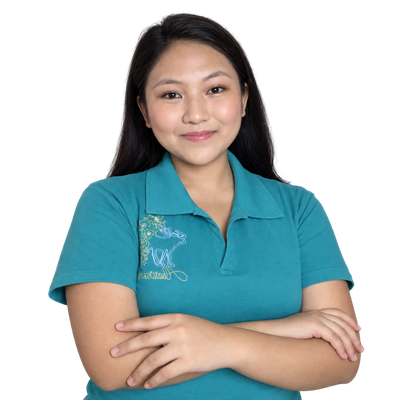
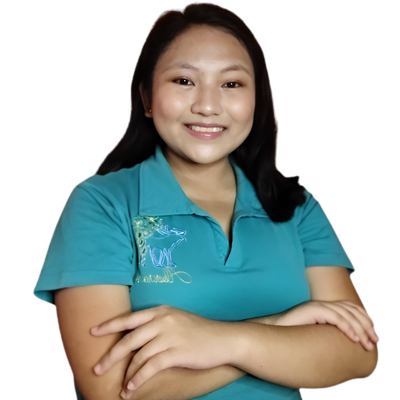
portfolio update 2026

Changed region(s): [[0.06, 0.0, 0.96, 1.0], [0.78, 0.54, 0.84, 0.6], [0.75, 0.6, 0.78, 0.63]]

diff --git a/index.html b/index.html
@@ -49,7 +49,7 @@
             </div>
             
             <div class="about__image-container">
-                <img src="./assets/profile-photo.png" alt="Rhyah Austrie Reyes" class="about__image-nobg">
+                <img src="./assets/profile-photo.png" alt="Rhyah Austrie Reyes" class="about__image-photo">
             </div>
         </div>
 
@@ -59,8 +59,8 @@
 
                 <div class="project">
                     <span class="badge badge--live">LIVE</span>
-                    <h5>Invoice and Data Entry Auto-Fill</h5>
-                    <p class="project__description">Automated pipeline intercepting Google Sheet rows, sanitizing data via Gemini AI, and generating clean invoices.</p>
+                    <h5>Invoice & Data Entry Automation</h5>
+                    <p class="project__description">Automated pipeline via Google Sheet rows, intercepting data via Gemini AI, and generating invoices.</p>
                     <ul class="project__stack project__stack--left">
                         <li class="project__stack-item">n8n</li>
                         <li class="project__stack-item">Gemini AI</li>
@@ -71,41 +71,6 @@
 
                 <div class="project">
                     <span class="badge badge--live">LIVE</span>
-                    <h5>B2B Lead Enrichment Pipeline</h5>
-                    <p class="project__description">Automated workflow that captures raw inbound leads, cross-references and enriches contact data, and syncs directly to the CRM.</p>
-                    <ul class="project__stack">
-                        <li class="project__stack-item">n8n</li>
-                        <li class="project__stack-item">Seamless.ai</li>
-                        <li class="project__stack-item">HubSpot</li>
-                    </ul>
-                    <a href="project-enrichment.html" class="btn--project">View Details <i class="fas fa-arrow-right" style="margin-left: 5px;"></i></a>
-                </div>
-
-                <div class="project">
-                    <span class="badge badge--live">LIVE</span>
-                    <h5>OUmate EdTech Platform UI/UX</h5>
-                    <p class="project__description">High-fidelity interactive wireframes for an open-university productivity application.</p>
-                    <ul class="project__stack">
-                        <li class="project__stack-item">Figma</li>
-                        <li class="project__stack-item">UI/UX Design</li>
-                    </ul>
-                    <a href="project-oumate.html" class="btn--project">View Details <i class="fas fa-arrow-right" style="margin-left: 5px;"></i></a>
-                </div>
-
-                <div class="project">
-                    <span class="badge badge--live">COMPLETED</span>
-                    <h5>Customer Churn Prediction Model</h5>
-                    <p class="project__description">Data science model analyzing customer behavior and historical data to predict churn risks and trigger retention protocols.</p>
-                    <ul class="project__stack">
-                        <li class="project__stack-item">Python</li>
-                        <li class="project__stack-item">Scikit-Learn</li>
-                        <li class="project__stack-item">AWS</li>
-                    </ul>
-                    <a href="project-churn.html" class="btn--project">View Details <i class="fas fa-arrow-right" style="margin-left: 5px;"></i></a>
-                </div>
-                
-                <div class="project">
-                    <span class="badge badge--progress">IN PROGRESS</span>
                     <h5>Email Triage & Routing Bot</h5>
                     <p class="project__description">An automated inbox management system categorizing client emails and generating context-aware draft replies.</p>
                     <ul class="project__stack">
@@ -117,9 +82,9 @@
                 </div>
 
                 <div class="project">
-                    <span class="badge badge--progress">IN PROGRESS</span>
+                    <span class="badge badge--live">LIVE</span>
                     <h5>Revenue Intelligence Dashboard</h5>
-                    <p class="project__description">Developing a business intelligence dashboard to visualize data sources and forecast revenue metrics.</p>
+                    <p class="project__description">A business intelligence dashboard developed through Amazon QuickSight to visualize data sources and forecast revenue metrics.</p>
                     <ul class="project__stack">
                         <li class="project__stack-item">AWS</li>
                         <li class="project__stack-item">Python</li>
@@ -127,6 +92,18 @@
                     </ul>
                     <a href="project-dashboard.html" class="btn--project">View Details <i class="fas fa-arrow-right" style="margin-left: 5px;"></i></a>
                 </div>
+                
+                <div class="project">
+                    <span class="badge badge--live">LIVE</span>
+                    <h5>OUmate EdTech App UI/UX Design</h5>
+                    <p class="project__description">High-fidelity interactive wireframes for University of the Philippines - Open University productivity application.</p>
+                    <ul class="project__stack">
+                        <li class="project__stack-item">Figma</li>
+                        <li class="project__stack-item">UI/UX Design</li>
+                    </ul>
+                    <a href="project-oumate.html" class="btn--project">View Details <i class="fas fa-arrow-right" style="margin-left: 5px;"></i></a>
+                </div>
+
             </div>
         </section>
 

diff --git a/project-dashboard.html b/project-dashboard.html
@@ -3,7 +3,7 @@
 <head>
     <meta charset="UTF-8" />
     <meta name="viewport" content="width=device-width, initial-scale=1" />
-    <title>Project Details | Rhyah Austrie Reyes</title>
+    <title>Revenue Intelligence Dashboard | Rhyah Austrie Reyes</title>
     <link rel="preconnect" href="https://fonts.googleapis.com" />
     <link rel="preconnect" href="https://fonts.gstatic.com" crossorigin />
     <link href="https://fonts.googleapis.com/css2?family=Inter:wght@400;500;600;700&display=swap" rel="stylesheet" />
@@ -19,43 +19,52 @@
             margin-bottom: 4rem; 
             border: 1px solid rgba(0,0,0,0.05);
         }
-        .project-content h3 { margin-top: 1.5rem; margin-bottom: 0.5rem; color: var(--clr-primary); }
-        .workflow-list li { margin-bottom: 0.5rem; }
+        .project-content h3 { margin-top: 2rem; margin-bottom: 0.5rem; color: var(--clr-primary); font-size: 1.4rem; text-transform: uppercase; font-weight: 700; letter-spacing: 1px;}
+        .workflow-list { display: flex; flex-wrap: wrap; gap: 1rem; margin-top: 1rem; }
+        .workflow-list li { background: var(--clr-bg); padding: 1rem 1.5rem; border-radius: 8px; flex: 1 1 45%; border: 1px solid rgba(0,0,0,0.05); }
     </style>
 </head>
 <body class="light">
     <header class="header">
         <div class="header__inner">
             <div class="social-links">
-                <a href="index.html" class="link link--nav"><i class="fas fa-arrow-left"></i> Back to Portfolio</a>
+                <a href="index.html#projects" class="link link--nav"><i class="fas fa-arrow-left"></i> Back to Projects</a>
             </div>
         </div>
     </header>
 
-    <main style="max-width: 800px;">
+    <main style="max-width: 900px;">
         <div class="project-header">
             <span class="badge badge--live">LIVE</span>
-            <h1>Invoice and Data Entry Auto-Fill</h1>
-            <p class="subhead">Automated pipeline intercepting Google Sheet rows and generating clean invoices.</p>
+            <h1>NovaTech Revenue Intelligence</h1>
+            <p class="subhead">AWS Data Pipeline & Business Intelligence Dashboard</p>
+            <div style="margin-top: 1rem;">
+                <a href="https://github.com/reyesrhyahaustrie/novatech-revenue-intelligence-dashboard" target="_blank" class="btn btn--outline"><i class="fab fa-github"></i> View Repository</a>
+            </div>
         </div>
 
         <div class="project-content">
-            <!-- Dito mo ilalagay yung screenshot mula sa n8n -->
-            <img src="assets/project1-demo.png" alt="n8n Workflow" style="width: 100%; border-radius: 12px; margin-bottom: 2rem; background: #111;">
+            <h3>Overview</h3>
+            <p>Developed a unified Business Intelligence dashboard using AWS and Amazon QuickSight. It aggregates raw data from CRM deals, marketing campaigns, and support tickets to provide clear visibility into the marketing funnel, sales pipeline, and customer health.</p>
             
-            <h3>The Problem</h3>
-            <p>Manual transcription of session details into invoices introduces human error in dates, client names, and pricing logic.</p>
+            <h3>The Problem & Solution</h3>
+            <p><strong>Problem:</strong> Scattered financial and marketing metrics across multiple platforms make it difficult to spot real-time revenue trends, calculate conversion rates accurately, and allocate budgets effectively.</p>
+            <p><strong>Solution:</strong> Engineered a centralized data pipeline that merges disparate datasets into a single source of truth, outputting actionable insights directly to stakeholders.</p>
             
-            <h3>The Solution</h3>
-            <p>Engineered an automated pipeline that intercepts unstructured Google Sheet rows, utilizes Gemini AI to sanitize and validate formatting, and outputs pristine invoice data. Anomalies are automatically routed to a manual review queue.</p>
-            
-            <h3>Workflow Breakdown</h3>
+            <h3>Build Process</h3>
             <ul class="workflow-list">
-                <li><strong>Trigger:</strong> New row added to Google Sheets.</li>
-                <li><strong>Processing:</strong> Gemini AI node parses and cleans the data.</li>
-                <li><strong>Logic:</strong> If/Else node checks for anomalies.</li>
-                <li><strong>Output:</strong> Generates a finalized PDF invoice or flags for review.</li>
+                <li><strong>Step 1: Data Integration</strong><br>Merged raw CSV datasets (Deals, Campaigns, Tickets) using native joins.</li>
+                <li><strong>Step 2: Data Cleaning</strong><br>Standardized data types and added calculated fields for cross-referencing.</li>
+                <li><strong>Step 3: Visualization</strong><br>Built interactive charts tracking Total Leads, Response Rates, and Conversions.</li>
+                <li><strong>Step 4: AI Insights</strong><br>Configured Agentic AI topics to generate automated natural language insights.</li>
             </ul>
+
+            <h3>Gallery</h3>
+            <p><strong>Final BI Dashboard Interface:</strong></p>
+            <img src="assets/dashboard-marketing-funnel.png" alt="Revenue Intelligence Dashboard UI" style="width: 100%; border-radius: 12px; margin-bottom: 2rem; box-shadow: var(--shadow);">
+            
+            <p><strong>Backend Data Preparation Pipeline:</strong></p>
+            <img src="assets/dashboard-data.png" alt="AWS Data Pipeline Preparation" style="width: 100%; border-radius: 12px; margin-top: 0.5rem; border: 1px solid rgba(0,0,0,0.05);">
         </div>
     </main>
 </body>

diff --git a/project-email.html b/project-email.html
@@ -3,7 +3,7 @@
 <head>
     <meta charset="UTF-8" />
     <meta name="viewport" content="width=device-width, initial-scale=1" />
-    <title>Project Details | Rhyah Austrie Reyes</title>
+    <title>Email Triage & Routing Bot | Rhyah Austrie Reyes</title>
     <link rel="preconnect" href="https://fonts.googleapis.com" />
     <link rel="preconnect" href="https://fonts.gstatic.com" crossorigin />
     <link href="https://fonts.googleapis.com/css2?family=Inter:wght@400;500;600;700&display=swap" rel="stylesheet" />
@@ -19,43 +19,47 @@
             margin-bottom: 4rem; 
             border: 1px solid rgba(0,0,0,0.05);
         }
-        .project-content h3 { margin-top: 1.5rem; margin-bottom: 0.5rem; color: var(--clr-primary); }
-        .workflow-list li { margin-bottom: 0.5rem; }
+        .project-content h3 { margin-top: 2rem; margin-bottom: 0.5rem; color: var(--clr-primary); font-size: 1.4rem; text-transform: uppercase; font-weight: 700; letter-spacing: 1px;}
+        .workflow-list { display: flex; flex-wrap: wrap; gap: 1rem; margin-top: 1rem; }
+        .workflow-list li { background: var(--clr-bg); padding: 1rem 1.5rem; border-radius: 8px; flex: 1 1 45%; border: 1px solid rgba(0,0,0,0.05); }
     </style>
 </head>
 <body class="light">
     <header class="header">
         <div class="header__inner">
             <div class="social-links">
-                <a href="index.html" class="link link--nav"><i class="fas fa-arrow-left"></i> Back to Portfolio</a>
+                <a href="index.html#projects" class="link link--nav"><i class="fas fa-arrow-left"></i> Back to Projects</a>
             </div>
         </div>
     </header>
 
-    <main style="max-width: 800px;">
+    <main style="max-width: 900px;">
         <div class="project-header">
             <span class="badge badge--live">LIVE</span>
-            <h1>Invoice and Data Entry Auto-Fill</h1>
-            <p class="subhead">Automated pipeline intercepting Google Sheet rows and generating clean invoices.</p>
+            <h1>Email Triage & Routing Bot</h1>
+            <p class="subhead">n8n Workflow & AI Email Automation</p>
         </div>
 
         <div class="project-content">
-            <!-- Dito mo ilalagay yung screenshot mula sa n8n -->
-            <img src="assets/project1-demo.png" alt="n8n Workflow" style="width: 100%; border-radius: 12px; margin-bottom: 2rem; background: #111;">
+            <h3>Overview</h3>
+            <p>An automated inbox management system built in n8n that categorizes inbound client emails and generates context-aware draft replies to maintain communication speed outside of office hours.</p>
             
-            <h3>The Problem</h3>
-            <p>Manual transcription of session details into invoices introduces human error in dates, client names, and pricing logic.</p>
+            <h3>The Problem & Solution</h3>
+            <p><strong>Problem:</strong> High volumes of inbound client emails pile up unanswered, causing critical delays in response times for urgent requests and manual fatigue for routine inquiries.</p>
+            <p><strong>Solution:</strong> A continuous n8n workflow monitoring the inbox, filtering out spam, evaluating intent using Google Gemini AI, and either preparing an automated draft or sending an instant Slack alert for urgent issues.</p>
             
-            <h3>The Solution</h3>
-            <p>Engineered an automated pipeline that intercepts unstructured Google Sheet rows, utilizes Gemini AI to sanitize and validate formatting, and outputs pristine invoice data. Anomalies are automatically routed to a manual review queue.</p>
-            
-            <h3>Workflow Breakdown</h3>
+            <h3>Build Process</h3>
             <ul class="workflow-list">
-                <li><strong>Trigger:</strong> New row added to Google Sheets.</li>
-                <li><strong>Processing:</strong> Gemini AI node parses and cleans the data.</li>
-                <li><strong>Logic:</strong> If/Else node checks for anomalies.</li>
-                <li><strong>Output:</strong> Generates a finalized PDF invoice or flags for review.</li>
+                <li><strong>Step 1: Inbound Webhook</strong><br>Gmail node triggers on new incoming unread emails in the designated mailbox.</li>
+                <li><strong>Step 2: AI Categorization</strong><br>Gemini AI evaluates the email content to categorize it as <em>Inquiry</em>, <em>Urgent</em>, or <em>Routine</em>.</li>
+                <li><strong>Step 3: Intent Routing</strong><br>A Switch node processes the email based on the AI's determined category.</li>
+                <li><strong>Step 4: Action & Escalation</strong><br>Urgent emails trigger a Slack notification to the team. Routine emails prompt a Gmail node to create a contextual draft reply.</li>
             </ul>
+
+            <h3>Gallery</h3>
+            <p><strong>n8n Workflow Automation:</strong></p>
+            <!-- Update the image source below with your actual n8n screenshot file name -->
+            <img src="assets/email-triage-workflow.jpg" alt="Email Triage n8n Workflow" style="width: 100%; border-radius: 12px; margin-top: 0.5rem; border: 1px solid rgba(0,0,0,0.05); background: #111;">
         </div>
     </main>
 </body>

diff --git a/project-oumate.html b/project-oumate.html
@@ -19,14 +19,14 @@
             margin-bottom: 4rem; 
             border: 1px solid rgba(0,0,0,0.05);
         }
-        .project-content h3 { margin-top: 1.5rem; margin-bottom: 0.5rem; color: var(--clr-primary); }
+        .project-content h3 { margin-top: 2rem; margin-bottom: 0.5rem; color: var(--clr-primary); }
     </style>
 </head>
 <body class="light">
     <header class="header">
         <div class="header__inner">
             <div class="social-links">
-                <a href="index.html" class="link link--nav"><i class="fas fa-arrow-left"></i> Back to Portfolio</a>
+                <a href="index.html#projects" class="link link--nav"><i class="fas fa-arrow-left"></i> Back to Projects</a>
             </div>
         </div>
     </header>
@@ -34,12 +34,12 @@
     <main style="max-width: 800px;">
         <div class="project-header">
             <span class="badge badge--live">LIVE</span>
-            <h1>OUmate EdTech Platform UI/UX</h1>
-            <p class="subhead">High-fidelity interactive wireframes for an open-university productivity application.</p>
+            <h1>OUmate EdTech App UI/UX Design</h1>
+            <p class="subhead">High-fidelity interactive wireframes for University of the Philippines - Open University productivity application.</p>
         </div>
 
         <div class="project-content">
-            <img src="assets/Screenshot 2026-09-29 at 1.19.28 AM.jpg" alt="OUmate Splash Screen" style="width: 100%; max-width: 350px; display: block; margin: 0 auto 2rem; border-radius: 20px; box-shadow: var(--shadow);">
+            <img src="assets/project-oumate-photo.png" alt="OUmate UI/UX Design" style="width: 100%; max-width: 550px; display: block; margin: 0 auto 3.5rem auto;">
             
             <h3>The Problem</h3>
             <p>Open university students lack a centralized, distraction-free environment for collaborative study tasks.</p>

diff --git a/project-invoice.html b/project-invoice.html
@@ -27,7 +27,7 @@
     <header class="header">
         <div class="header__inner">
             <div class="social-links">
-                <a href="index.html" class="link link--nav"><i class="fas fa-arrow-left"></i> Back to Portfolio</a>
+                <a href="index.html#projects" class="link link--nav"><i class="fas fa-arrow-left"></i> Back to Projects</a>
             </div>
         </div>
     </header>
@@ -35,12 +35,11 @@
     <main style="max-width: 800px;">
         <div class="project-header">
             <span class="badge badge--live">LIVE</span>
-            <h1>Invoice and Data Entry Auto-Fill</h1>
-            <p class="subhead">Automated pipeline intercepting Google Sheet rows and generating clean invoices.</p>
+            <h1>Invoice & Data Entry Automation</h1>
+            <p class="subhead">Automated pipeline via Google Sheet rows, intercepting data via Gemini AI, and generating invoices.</p>
         </div>
 
         <div class="project-content">
-            <!-- Dito mo ilalagay yung screenshot mula sa n8n -->
             <img src="assets/project1-demo.png" alt="n8n Workflow" style="width: 100%; border-radius: 12px; margin-bottom: 2rem; background: #111;">
             
             <h3>The Problem</h3>
